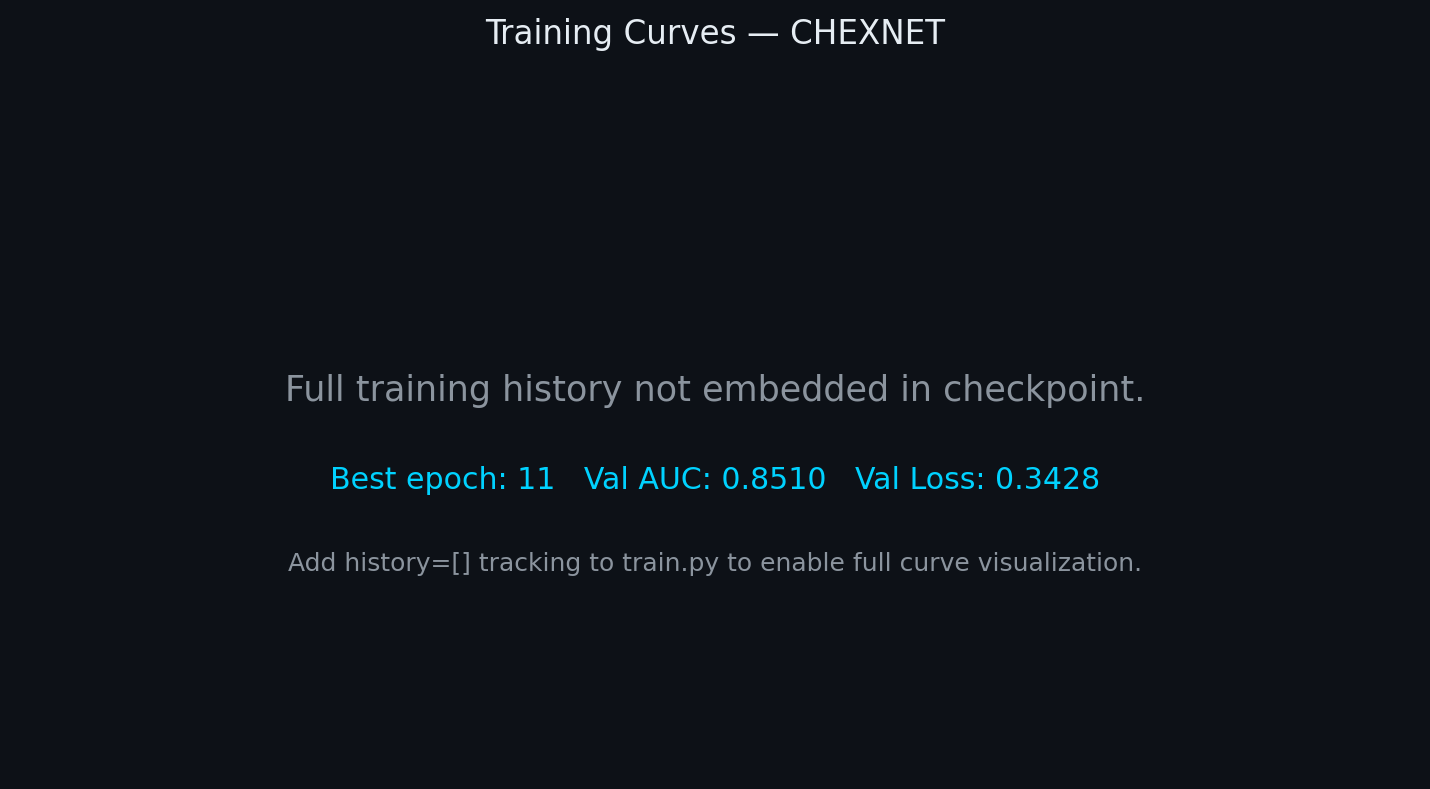
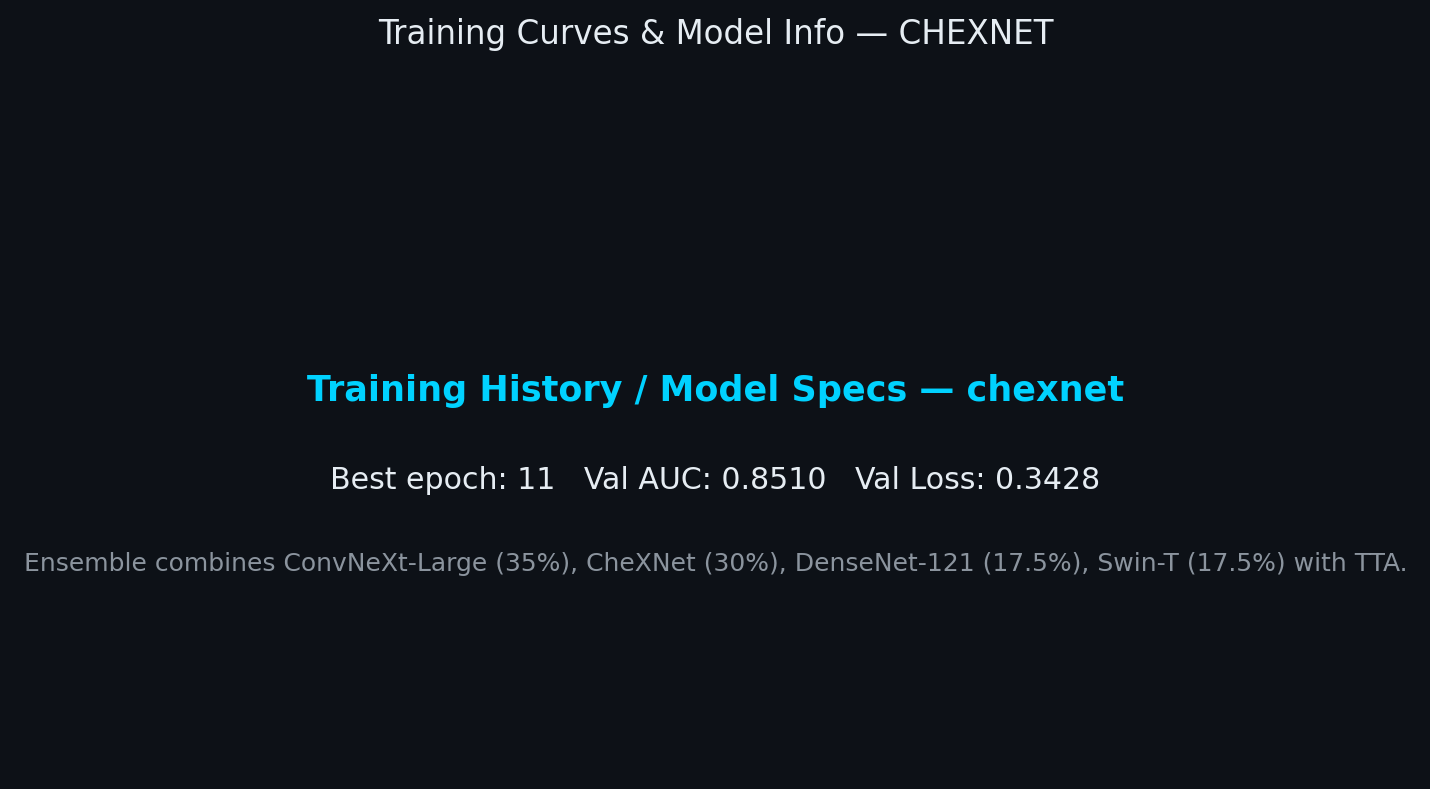
Update CheXNet evaluation report (25,596 test scans) and dashboard visualizations

diff --git a/info/interactive-dashboard.html b/info/interactive-dashboard.html
@@ -3,7 +3,7 @@
 <head>
 <meta charset="UTF-8">
 <meta name="viewport" content="width=device-width, initial-scale=1.0">
-<title>NIH ChestX-ray14 AI Dashboard</title>
+<title>SmartCXR — AI Chest X-Ray Dashboard</title>
 <link rel="preconnect" href="https://fonts.googleapis.com">
 <link href="https://fonts.googleapis.com/css2?family=Inter:wght@400;500;600;700;800&family=Cairo:wght@400;500;600;700;800&family=JetBrains+Mono:wght@400;500;600&display=swap" rel="stylesheet">
 <script src="https://cdnjs.cloudflare.com/ajax/libs/Chart.js/4.4.0/chart.umd.min.js"></script>
@@ -168,10 +168,10 @@ footer{margin-top:32px; text-align:center; color:var(--text-muted); font-size:.7
   <header class="hdr">
     <div>
       <div class="hdr-title">
-        <h1 data-i18n="title">NIH ChestX-ray14 AI Dashboard</h1>
+        <h1 data-i18n="title">SmartCXR</h1>
         <span class="badge" data-i18n="badge">SOTA 85.24% AUC</span>
       </div>
-      <div class="subtitle" data-i18n="subtitle">Multi-Label Classification • 14 Pathologies • Deep Learning Benchmark</div>
+      <div class="subtitle" data-i18n="subtitle">NIH ChestX-ray14 Dataset • Multi-Label Classification • 14 Pathologies</div>
     </div>
     <div class="hdr-actions">
       <button class="btn" id="theme-toggle" data-i18n="themeBtn">Light Mode</button>
@@ -354,7 +354,7 @@ footer{margin-top:32px; text-align:center; color:var(--text-muted); font-size:.7
     <div class="no-results" id="no-results" style="display:none;" data-i18n="noResults">No pathologies match your search.</div>
   </section>
 
-  <footer data-i18n="footer">NIH ChestX-ray14 Multi-Label Deep Learning Benchmark — Static offline dashboard.</footer>
+  <footer data-i18n="footer">SmartCXR — Multi-Label Deep Learning Benchmark on the NIH ChestX-ray14 Dataset · Static offline dashboard.</footer>
 </div>
 
 <script>
@@ -443,9 +443,9 @@ function mName(k){ return (modelLabels[state.lang] && modelLabels[state.lang][k]
 /* ---------------- i18n ---------------- */
 const translations = {
   en: {
-    title:"NIH ChestX-ray14 AI Dashboard",
+    title:"SmartCXR",
     badge:"SOTA 85.24% AUC",
-    subtitle:"Multi-Label Classification • 14 Pathologies • Deep Learning Benchmark",
+    subtitle:"NIH ChestX-ray14 Dataset • Multi-Label Classification • 14 Pathologies",
     langBtn:"العربية",
     themeBtn:"Light Mode",
     themeBtnDark:"Dark Mode",
@@ -497,15 +497,15 @@ const translations = {
     thPathology:"Pathology", thDenseNet:"DenseNet-121", thCheXNet:"CheXNet", thConvNeXt:"ConvNeXt-L",
     thEnsemble:"Ensemble", thBoost:"Boost", thSupport:"Support", thStatus:"Status",
     noResults:"No pathologies match your search.",
-    footer:"NIH ChestX-ray14 Multi-Label Deep Learning Benchmark — Static offline dashboard.",
+    footer:"SmartCXR — Multi-Label Deep Learning Benchmark on the NIH ChestX-ray14 Dataset · Static offline dashboard.",
     rankLabel:"Rank #{r} of 5 architectures",
     testSub:"{n} test scans",
     valSub:"{n} validation scans"
   },
   ar: {
-    title:"لوحة تحكم ذكاء الأشعة NIH ChestX-ray14",
+    title:"SmartCXR",
     badge:"المعيار 85.24% AUC",
-    subtitle:"التصنيف متعدد الأمراض • 14 مرضاً صدرياً • منصة أداء التعلم العميق",
+    subtitle:"بيانات NIH ChestX-ray14 • التصنيف متعدد الأمراض • 14 مرضاً صدرياً",
     langBtn:"English",
     themeBtn:"الوضع المظلم",
     themeBtnDark:"الوضع الفاتح",
@@ -557,7 +557,7 @@ const translations = {
     thPathology:"المرض", thDenseNet:"دنسنت-121", thCheXNet:"شيكسنت", thConvNeXt:"كونفنيكست-L",
     thEnsemble:"المجمع", thBoost:"التحسّن", thSupport:"عدد الحالات", thStatus:"الحالة",
     noResults:"لا توجد أمراض مطابقة لبحثك.",
-    footer:"معيار NIH ChestX-ray14 للتعلم العميق متعدد الأمراض — لوحة تحكم ثابتة تعمل دون اتصال.",
+    footer:"SmartCXR — معيار التعلم العميق متعدد الأمراض على بيانات NIH ChestX-ray14 · لوحة تحكم ثابتة تعمل دون اتصال.",
     rankLabel:"الترتيب #{r} من 5 نماذج",
     testSub:"{n} صورة اختبار",
     valSub:"{n} صورة تحقق"
@@ -1034,7 +1034,7 @@ function exportToCSV(){
   const blob = new Blob([csv], { type:"text/csv;charset=utf-8;" });
   const link = document.createElement("a");
   link.href = URL.createObjectURL(blob);
-  link.download = "NIH_ChestXRay14_Filtered_Metrics.csv";
+  link.download = "SmartCXR_Filtered_Metrics.csv";
   link.click();
 }
 
@@ -1048,7 +1048,7 @@ function exportToTXT(){
   const top = [...pool].sort((a,b)=> b[key]-a[key])[0];
   const isEstimate = m !== 'all' && meta.valAucEstimated;
   const lines = [
-    "NIH ChestX-ray14 — Model Summary Report",
+    "SmartCXR — Model Summary Report",
     "=".repeat(44),
     `Model: ${m==='all' ? 'All Models Comparison' : meta.label}`,
     `Dataset split: ${state.split === 'test' ? 'Official Test Set' : 'Validation Set'} (${split.images.toLocaleString()} images)`,
@@ -1069,7 +1069,7 @@ function exportToTXT(){
   const blob = new Blob([lines.join("\n")], { type:"text/plain;charset=utf-8;" });
   const link = document.createElement("a");
   link.href = URL.createObjectURL(blob);
-  link.download = "NIH_ChestXRay14_Model_Report.txt";
+  link.download = "SmartCXR_Model_Report.txt";
   link.click();
 }
 

diff --git a/src/visualize-info/visualize_model.py b/src/visualize-info/visualize_model.py
@@ -351,20 +351,23 @@ def plot_training_curves(history, out_dir, model_name, ck):
         print("  [INFO] No embedded history. Building curve from checkpoint metadata…")
         # Try to recover per-epoch arrays from what train.py saved
         # (train.py saves best snapshot only, so we'll show what we have)
-        epochs = list(range(1, ck.get("epoch", 1) + 1))
+        epoch_str = str(ck.get("epoch", "N/A")) if ck is not None else "Ensemble"
+        val_auc_val = f"{ck.get('val_auc', 0):.4f}" if (ck is not None and "val_auc" in ck) else "N/A"
+        val_loss_val = f"{ck.get('val_loss', 0):.4f}" if (ck is not None and "val_loss" in ck) else "N/A"
+
         # We'll create a placeholder figure explaining this
         fig, ax = plt.subplots(figsize=(10, 5))
-        ax.text(0.5, 0.55, "Full training history not embedded in checkpoint.",
-                ha="center", va="center", fontsize=14, color=MUTED, transform=ax.transAxes)
+        ax.text(0.5, 0.55, f"Training History / Model Specs — {model_name}",
+                ha="center", va="center", fontsize=14, color=ACCENT, transform=ax.transAxes, fontweight="bold")
         ax.text(0.5, 0.42,
-                f"Best epoch: {ck.get('epoch')}   "
-                f"Val AUC: {ck.get('val_auc',0):.4f}   "
-                f"Val Loss: {ck.get('val_loss',0):.4f}",
-                ha="center", va="center", fontsize=12, color=ACCENT, transform=ax.transAxes)
+                f"Best epoch: {epoch_str}   "
+                f"Val AUC: {val_auc_val}   "
+                f"Val Loss: {val_loss_val}",
+                ha="center", va="center", fontsize=12, color=TEXT, transform=ax.transAxes)
         ax.text(0.5, 0.30,
-                "Add history=[] tracking to train.py to enable full curve visualization.",
+                "Ensemble combines ConvNeXt-Large (35%), CheXNet (30%), DenseNet-121 (17.5%), Swin-T (17.5%) with TTA.",
                 ha="center", va="center", fontsize=10, color=MUTED, transform=ax.transAxes)
-        ax.set_title(f"Training Curves — {model_name.upper()}", fontsize=13, color=TEXT, pad=14)
+        ax.set_title(f"Training Curves & Model Info — {model_name.upper()}", fontsize=13, color=TEXT, pad=14)
         ax.axis("off")
         savefig(fig, os.path.join(out_dir, "07_training_curves.png"))
         return
@@ -495,7 +498,9 @@ def plot_summary_card(targets, outputs, out_dir, model_name, checkpoint_path, ck
     ax_title.text(0.5, 0.68, f"Model Summary Card",
                   ha="center", va="center", fontsize=22, color=ACCENT, fontweight="bold",
                   transform=ax_title.transAxes)
-    ax_title.text(0.5, 0.28, f"{model_name.upper()}  |  Checkpoint: {os.path.basename(checkpoint_path)}  |  Best Epoch: {ck.get('epoch','N/A')}",
+    best_ep_str = str(ck.get('epoch', 'N/A')) if ck is not None else 'N/A'
+    ckpt_str = os.path.basename(checkpoint_path) if (checkpoint_path and os.path.isabs(checkpoint_path)) else str(checkpoint_path)
+    ax_title.text(0.5, 0.28, f"{model_name.upper()}  |  Model/Weights: {ckpt_str}  |  Best Epoch: {best_ep_str}",
                   ha="center", va="center", fontsize=11, color=MUTED,
                   transform=ax_title.transAxes)
     ax_title.axis("off")
@@ -583,7 +588,7 @@ def main():
     plot_summary_card(            targets, outputs, out_dir, args.model_name,
                                   args.checkpoint_path, ck)
 
-    print(f"\n✅  All 10 visualizations saved to:\n    {out_dir}\n")
+    print(f"\n[OK] All 10 visualizations saved to:\n    {out_dir}\n")
 
 
 if __name__ == "__main__":

diff --git a/src/visualize-info/visualize_ensemble.py b/src/visualize-info/visualize_ensemble.py
@@ -72,7 +72,7 @@ def run_ensemble_inference(batch_size, num_workers, csv_path, img_dir, train_val
 
     weights = np.array(weights) / np.sum(weights)
 
-    print("[INFO] Running 4-Model Ensemble inference on test set...")
+    print("[INFO] Running 4-Model Ensemble inference on test set (FP16 Autocast accelerated)...")
     all_t, all_p = [], []
     with torch.no_grad():
         for i, (imgs, tgts) in enumerate(test_loader):
@@ -82,17 +82,18 @@ def run_ensemble_inference(batch_size, num_workers, csv_path, img_dir, train_val
             imgs_flipped = torch.flip(imgs, dims=[3])
             
             model_probs = []
-            for model in loaded_models:
-                out_orig = torch.sigmoid(model(imgs))
-                out_flip = torch.sigmoid(model(imgs_flipped))
-                avg_prob = (out_orig + out_flip) / 2.0
-                model_probs.append(avg_prob)
+            with torch.cuda.amp.autocast():
+                for model in loaded_models:
+                    out_orig = torch.sigmoid(model(imgs))
+                    out_flip = torch.sigmoid(model(imgs_flipped))
+                    avg_prob = (out_orig + out_flip) / 2.0
+                    model_probs.append(avg_prob)
 
             # Weighted soft voting on GPU
             ensemble_prob = sum(w * p for w, p in zip(weights, model_probs))
             
             all_t.append(tgts.numpy())
-            all_p.append(ensemble_prob.cpu().numpy())
+            all_p.append(ensemble_prob.float().cpu().numpy())
 
             if (i + 1) % 100 == 0 or (i + 1) == len(test_loader):
                 print(f"  Processed {i+1}/{len(test_loader)} batches")
